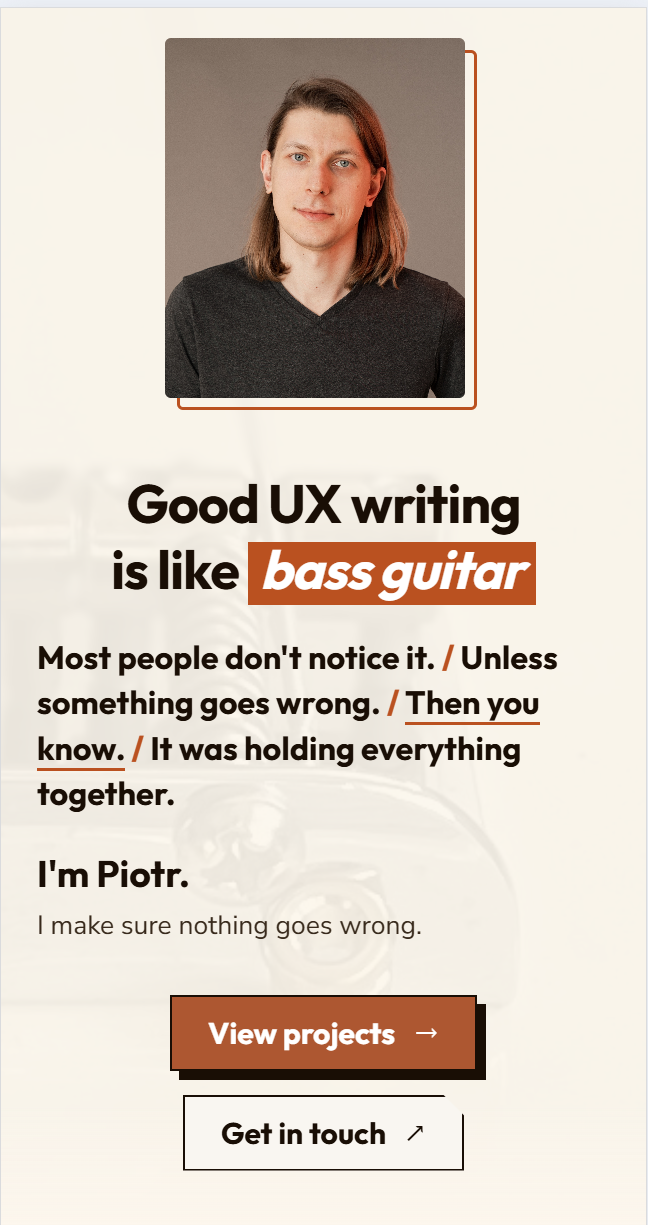
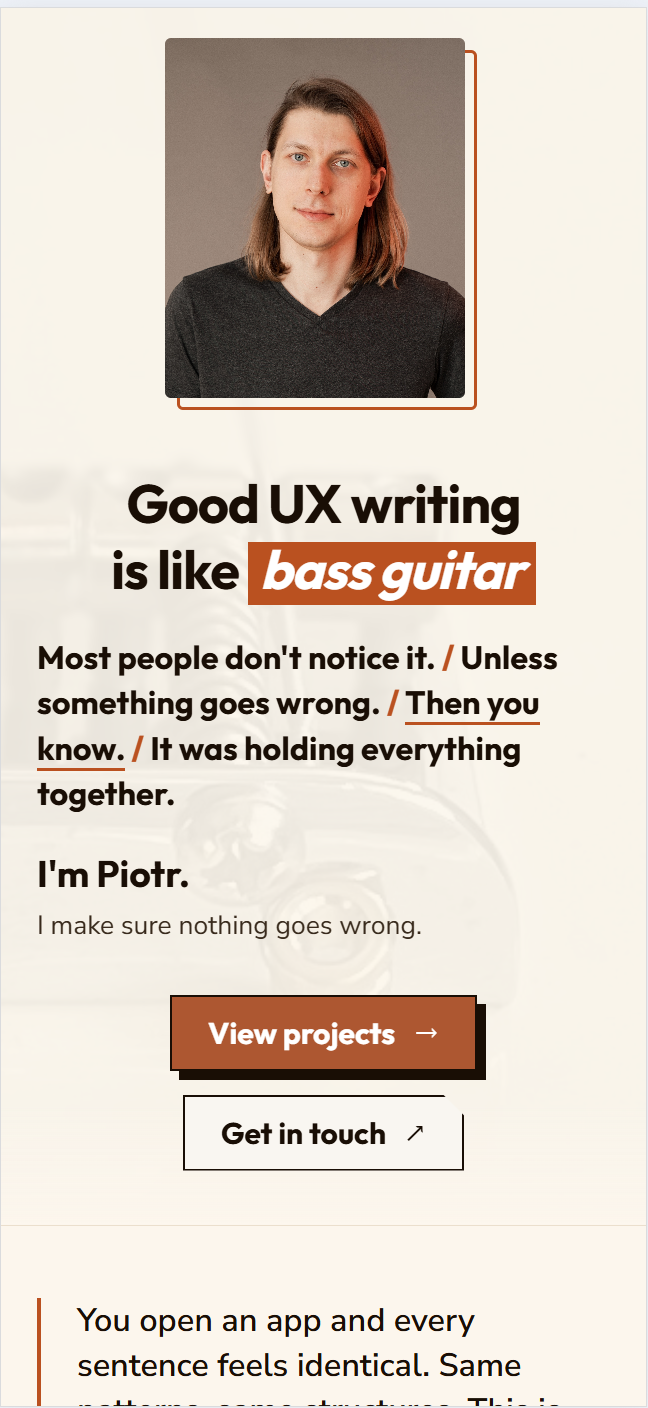
Polish copy, Clients B layout, and contact subtitle updates
- Clients: switch to B serif flow (flowing paragraph, orange dot separators)
- Contact: subtitle → "I don't just help you say things right. I help you say the right things."
- Hero: label upgraded to SENIOR UX DESIGNER · UX WRITER · CONTENT DESIGNER
- case-study-ai: PullQuote rewrite + BigStatement restored inside PullQuote
- case-study-figma: heading overridden to full cliffhanger sentence
- projects.ts: Figma card title shortened to cliffhanger ellipsis

Changed region(s): [[0.0, 0.0, 0.9877, 1.0], [0.7099, 0.031, 0.7407, 0.062]]

diff --git a/src/data/projects.ts b/src/data/projects.ts
@@ -19,7 +19,7 @@ export const PROJECTS: Project[] = [
     year: 2025,
     image: "/images/case_studies/figma-cs-1 (1).png",
     imagePosition: "center top",
-    title: "UX writers hate him. He gave designers a writing tool and walked away.",
+    title: "UX writers hate him. He gave designers a writing tool and…",
     description:
       "I built a Figma plugin from scratch. It took me 60 days and 86 iterations. Literally zero JavaScript experience.  Designers can now produce review-ready microcopy independently.",
     stats: [
